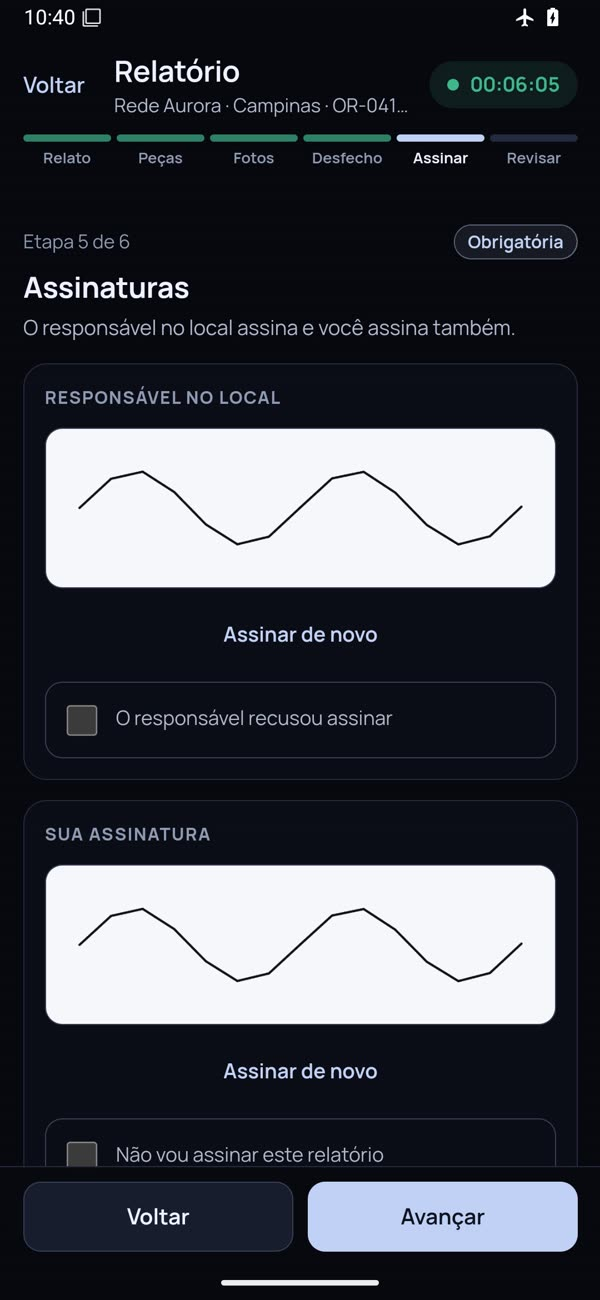
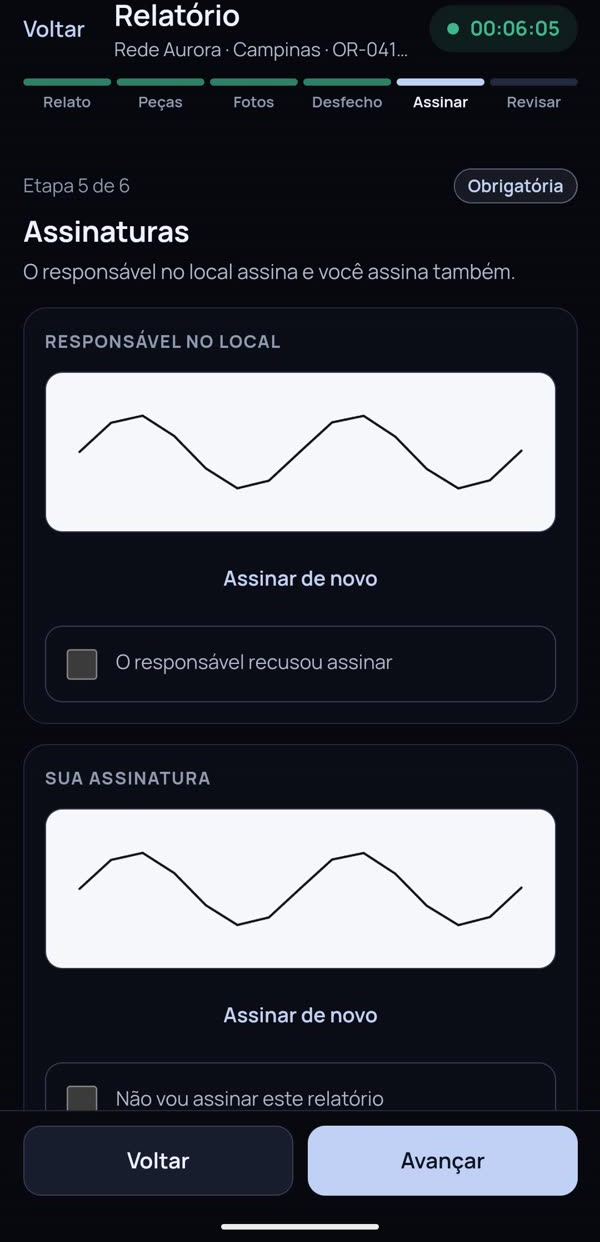
Horus: telas do celular sem barra de status duplicada, sem ampliar; rotulos dentro da moldura

diff --git a/horus.html b/horus.html
@@ -427,15 +427,15 @@
               </figure>
               <figure class="tr-dev tr-phone">
                 <div class="tr-screen">
-                  <div class="tr-shot" data-show="2"><img src="midia/horus-tela-cel-agenda.jpg" alt="Agenda do técnico no celular: próximo atendimento, botões para ir ao local e ligar, e o lembrete antes de cada visita." width="600" height="1300" loading="lazy" decoding="async" />
+                  <div class="tr-shot" data-show="2"><img src="midia/horus-tela-cel-agenda.jpg" alt="Agenda do técnico no celular: próximo atendimento, botões para ir ao local e ligar, e o lembrete antes de cada visita." width="600" height="1243" loading="lazy" decoding="async" />
                     <i class="tr-pin" style="--x:50%;--y:30%"><b>Próximo atendimento</b></i><i class="tr-pin" style="--x:50%;--y:59%"><b>Lembrete antes da visita</b></i></div>
-                  <div class="tr-shot" data-show="3"><img src="midia/horus-tela-cel-pecas.jpg" alt="Etapa de peças e reembolso no celular: peça retirada ou instalada, estado, modelo e leitura do código da peça." width="600" height="1300" loading="lazy" decoding="async" />
+                  <div class="tr-shot" data-show="3"><img src="midia/horus-tela-cel-pecas.jpg" alt="Etapa de peças e reembolso no celular: peça retirada ou instalada, estado, modelo e leitura do código da peça." width="600" height="1243" loading="lazy" decoding="async" />
                     <i class="tr-pin" style="--x:50%;--y:43%"><b>Peça retirada ou instalada</b></i><i class="tr-pin" style="--x:50%;--y:70%"><b>Lê o código da peça</b></i></div>
-                  <div class="tr-shot" data-show="4"><img src="midia/horus-tela-cel-fotos.jpg" alt="Etapa de fotos do atendimento no celular: tirar foto, galeria e gravar vídeo." width="600" height="1300" loading="lazy" decoding="async" />
+                  <div class="tr-shot" data-show="4"><img src="midia/horus-tela-cel-fotos.jpg" alt="Etapa de fotos do atendimento no celular: tirar foto, galeria e gravar vídeo." width="600" height="1243" loading="lazy" decoding="async" />
                     <i class="tr-pin" style="--x:28%;--y:33%"><b>Foto na hora</b></i><i class="tr-pin" style="--x:50%;--y:70%"><b>Vídeo, se precisar</b></i></div>
-                  <div class="tr-shot" data-show="5"><img src="midia/horus-tela-cel-assinatura.jpg" alt="Etapa de assinaturas no celular: assinatura do responsável no local e do técnico." width="600" height="1300" loading="lazy" decoding="async" />
+                  <div class="tr-shot" data-show="5"><img src="midia/horus-tela-cel-assinatura.jpg" alt="Etapa de assinaturas no celular: assinatura do responsável no local e do técnico." width="600" height="1243" loading="lazy" decoding="async" />
                     <i class="tr-pin" style="--x:50%;--y:40%"><b>Quem recebeu assina</b></i><i class="tr-pin" style="--x:50%;--y:73%"><b>O técnico também</b></i></div>
-                  <div class="tr-shot" data-show="6"><img src="midia/horus-tela-cel-revisao.jpg" alt="Etapa final no celular: conferir o resumo do atendimento e concluir." width="600" height="1300" loading="lazy" decoding="async" />
+                  <div class="tr-shot" data-show="6"><img src="midia/horus-tela-cel-revisao.jpg" alt="Etapa final no celular: conferir o resumo do atendimento e concluir." width="600" height="1243" loading="lazy" decoding="async" />
                     <i class="tr-pin" style="--x:50%;--y:38%"><b>Resumo para conferir</b></i><i class="tr-pin l" style="--x:72%;--y:93%"><b>Concluir e enviar</b></i></div>
                 </div>
                 <span class="tr-island" aria-hidden="true"></span>

diff --git a/horus.css b/horus.css
@@ -419,3 +419,11 @@ body.hx { background:#050609; overflow-x:clip; }
 @media (max-height:620px) { .hx-rat-copy h2 { font-size:34px; } .hx-rat-copy .eyebrow { margin-bottom:10px; } .hx-layers { margin-top:0; width:min(170px,50vw,calc((100svh - 330px) * .72)); } }
 @media (max-height:620px) { .hx-layers { margin-top:44px; width:min(135px,44vw); } }
 @media (max-height:700px) and (max-width:900px) { .hx-rat-copy > p { display:none; } .hx-rat .hx-stick { gap:0; } .hx-rat-copy h2 { font-size:36px; } .hx-layers { margin-top:64px; width:min(140px,44vw); } }
+
+/* Celular: a captura perdeu a barra de status (a moldura já tem a ilha); a imagem começa abaixo dela, sem ampliar */
+.tr-phone .tr-screen { background:#0a0c12; overflow:hidden; }
+.tr-phone .tr-shot { top:4.4%; transform:none; }
+.tr-phone .tr-shot img { object-fit:cover; object-position:top; }
+.tr-phone .tr-pin b { left:50%; top:-48px; transform:translateX(-50%); white-space:nowrap; }
+.tr-phone .tr-pin.l b { right:auto; left:50%; }
+.hx-tour[data-mode="phone"] .tr-desk { --o:.1; }
